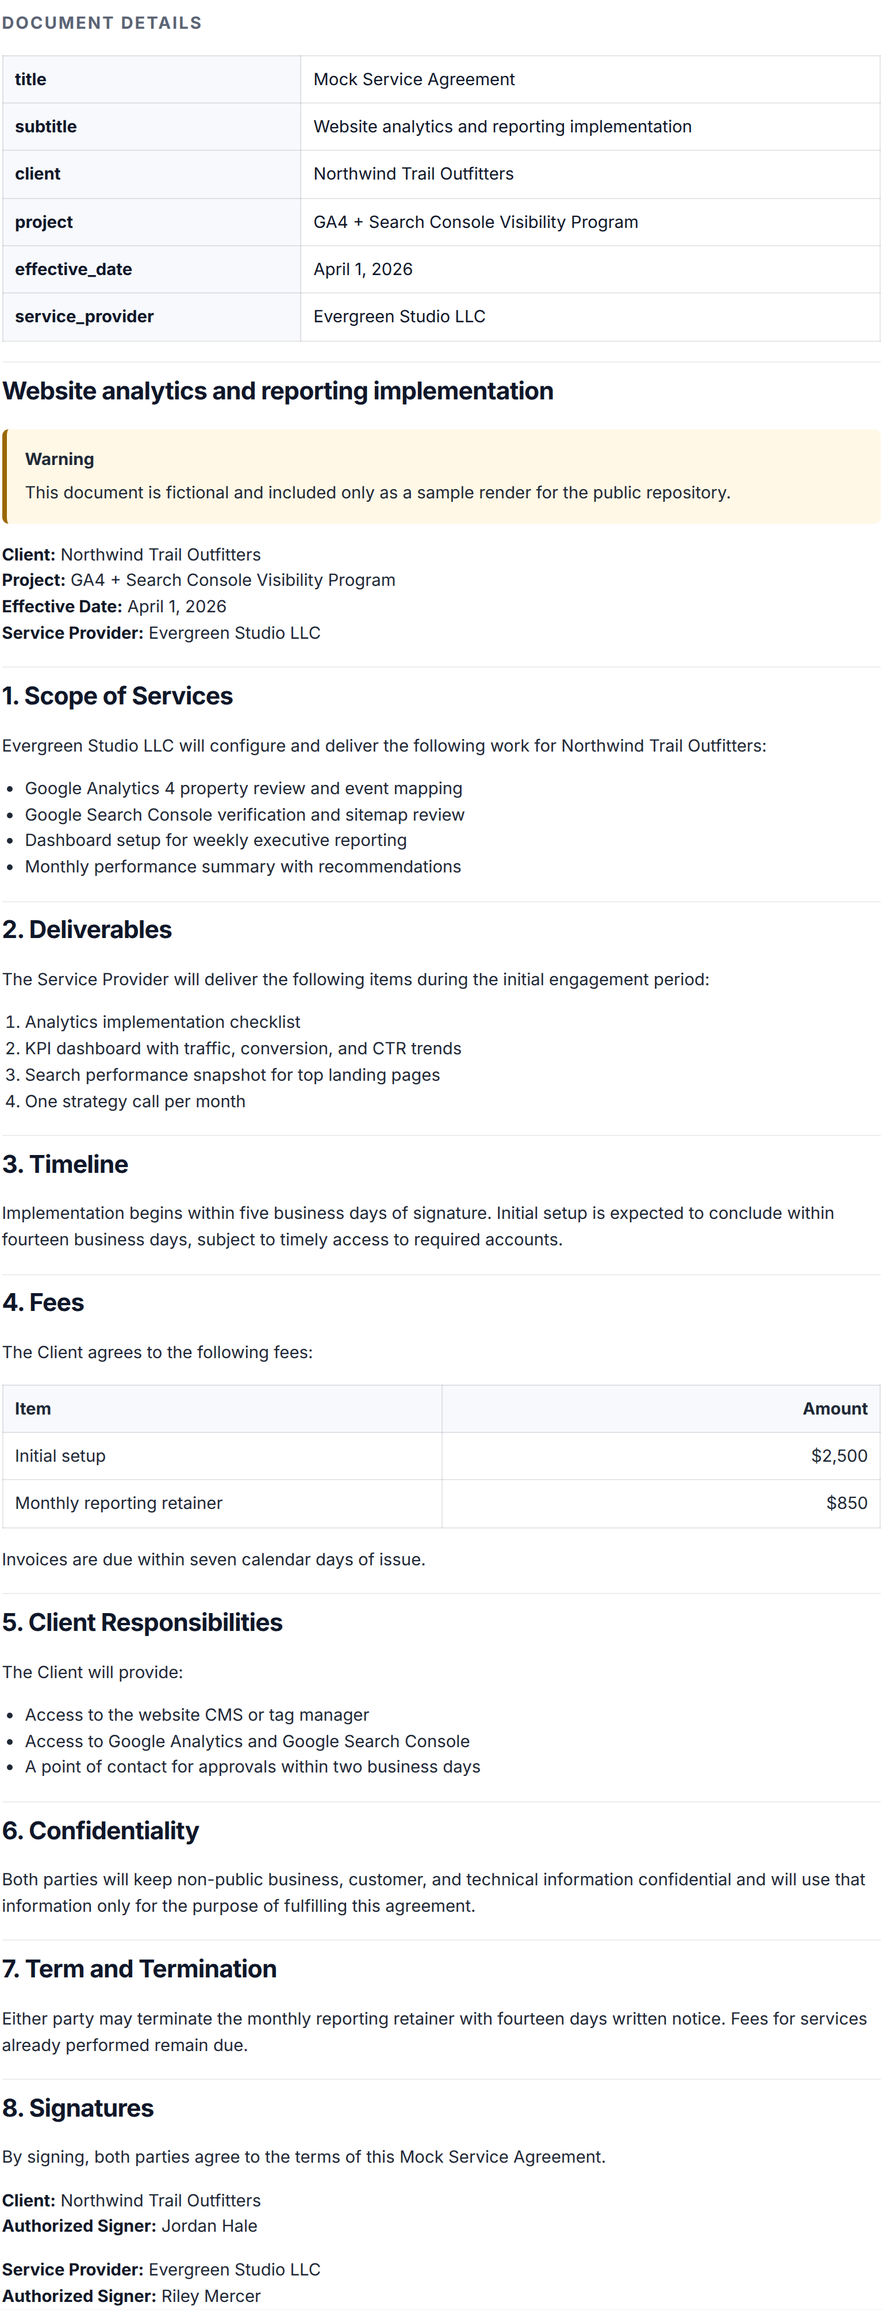
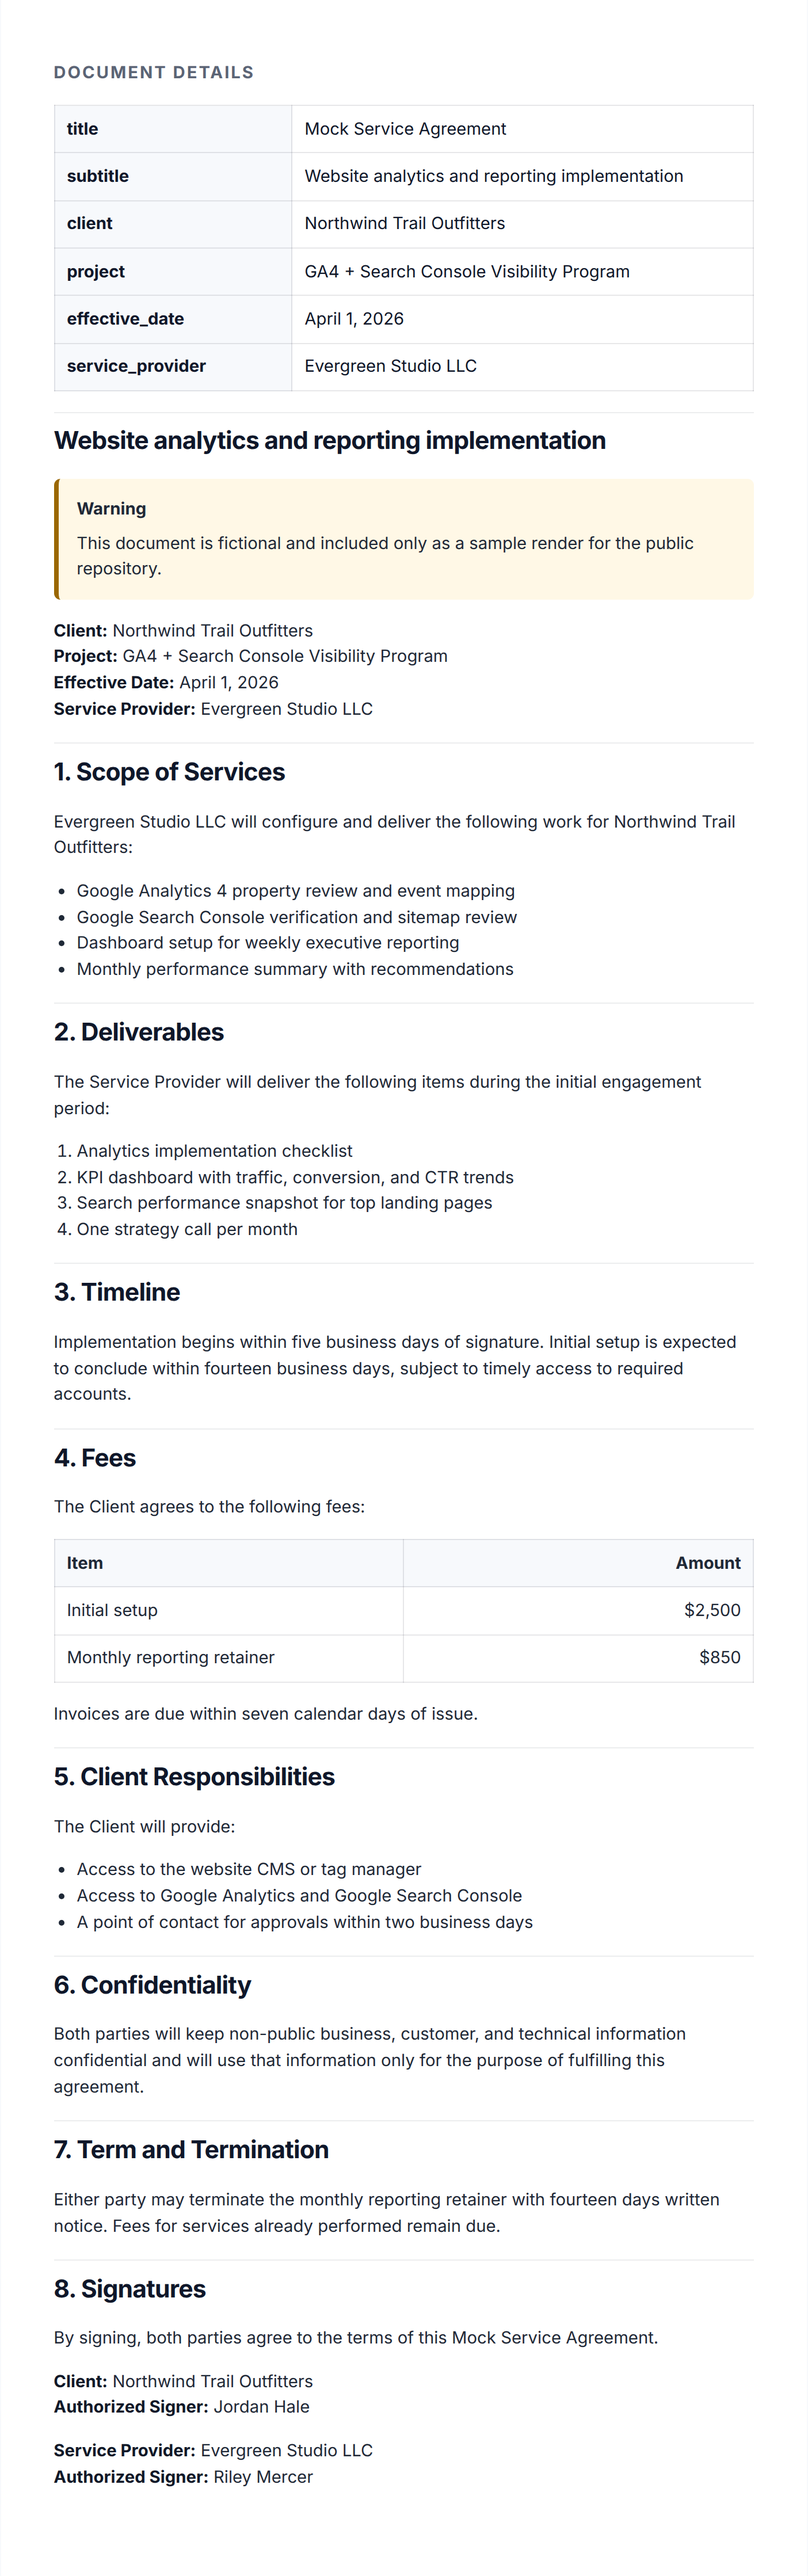
docs: improve example contract body margins

Changed region(s): [[0.0, 0.0, 1.0, 1.0], [0.8269, 0.5917, 0.9801, 0.654], [0.5207, 0.9031, 0.6738, 0.9342]]

diff --git a/examples/rendered/mock-service-agreement.html b/examples/rendered/mock-service-agreement.html
@@ -104,8 +104,9 @@ body {
 }
 
 .document-shell {
-  max-width: 8in;
+  max-width: 7.3in;
   margin: 0 auto;
+  padding: 0.42in 0.48in 0.62in;
   background: var(--surface);
 }
 
@@ -212,7 +213,7 @@ h3 {
 
 .metadata,
 .contract-body {
-  padding: 0 0.1rem;
+  padding: 0;
 }
 
 .metadata {

diff --git a/templates/default.css b/templates/default.css
@@ -98,8 +98,9 @@ body {
 }
 
 .document-shell {
-  max-width: 8in;
+  max-width: 7.3in;
   margin: 0 auto;
+  padding: 0.42in 0.48in 0.62in;
   background: var(--surface);
 }
 
@@ -206,7 +207,7 @@ h3 {
 
 .metadata,
 .contract-body {
-  padding: 0 0.1rem;
+  padding: 0;
 }
 
 .metadata {
